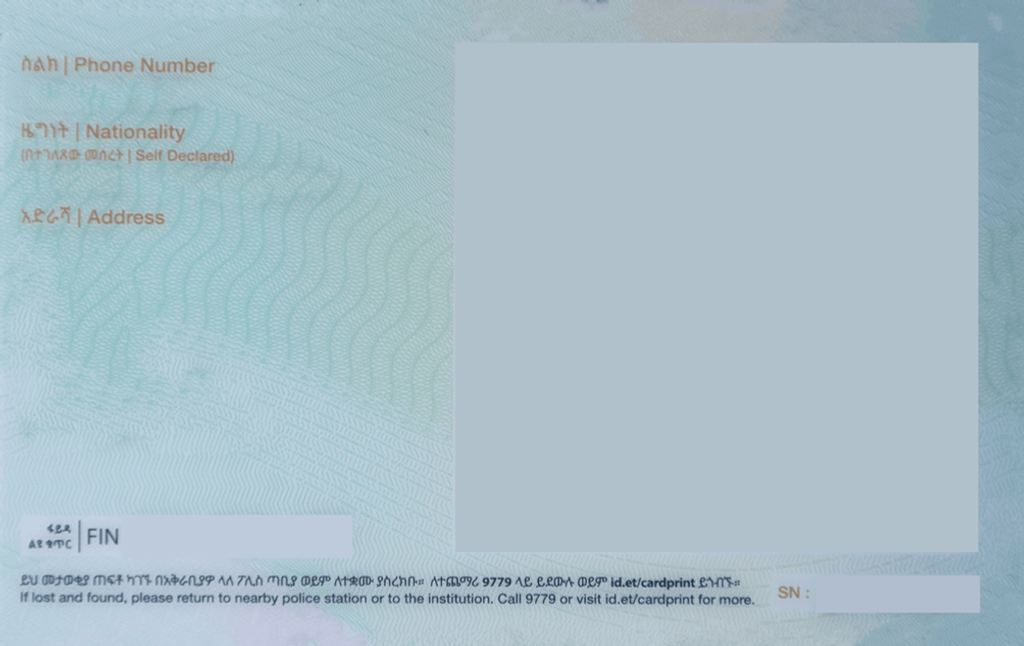
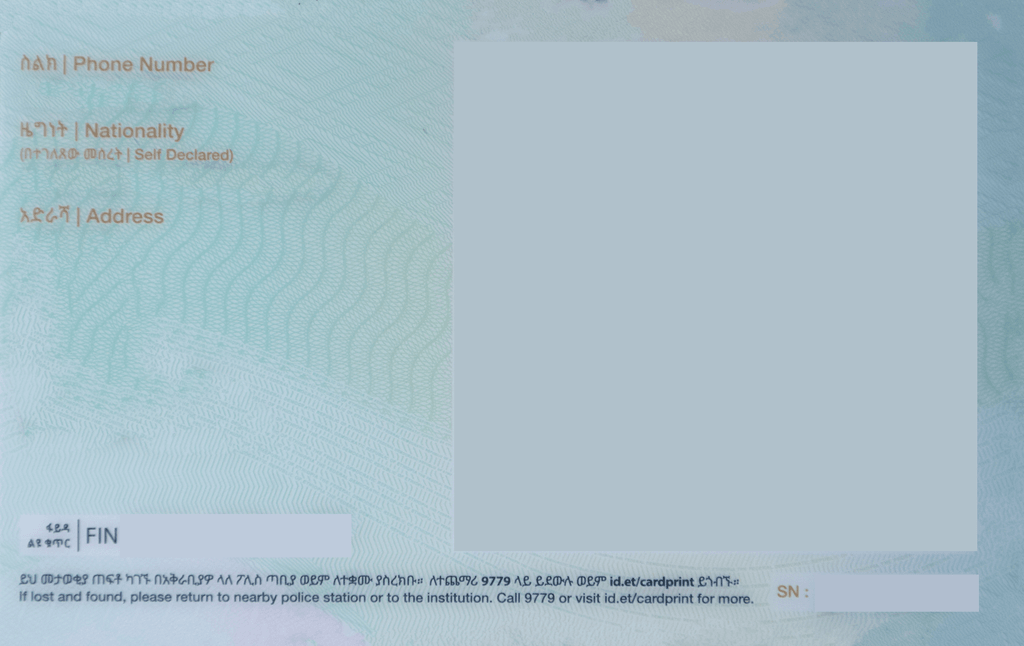
an

diff --git a/src/services/generator/pdfGenerator.ts b/src/services/generator/pdfGenerator.ts
@@ -22,6 +22,10 @@ const CARD_HEIGHT_PT = CARD_HEIGHT_CM * CM_TO_PT; // 155.01pt
 const CARD_GAP_PT = 19.20;      // Gap between front and back cards (matches 80px at 300dpi)
 const CARD_MARGIN_PT = 7.20;    // Margin around cutting guides (matches 30px at 300dpi)
 
+// Bleed area: 3mm = ~35px at 300 DPI = 8.40pt
+// Cards are scaled up by this amount so content extends beyond cut line
+const BLEED_PT = 8.40;          // Bleed area in points (35px at 300dpi)
+
 // Multi-card layout settings
 const CARDS_PER_PAGE = 5;    // 5 ID cards per page
 const MULTI_CARD_GAP = 8;    // Gap between cards in multi-card layout
@@ -63,22 +67,26 @@ export class PDFGenerator {
         doc.pipe(writeStream);
 
         // Position card at top of page with margin
-        // PNG dimensions: (1024*2 + 80 + 60) x (646 + 60) = 2188 x 706 px at 300dpi
-        const totalWidthWithPadding = CARD_WIDTH_PT * 2 + CARD_GAP_PT + (CARD_MARGIN_PT * 2);
-        const totalHeightWithPadding = CARD_HEIGHT_PT + (CARD_MARGIN_PT * 2);
+        // PNG dimensions now include bleed area (35px = ~8.40pt on each side)
+        // Card with bleed: (1024 + 70) x (646 + 70) = 1094 x 716 px per card at 300dpi
+        // Total: (1094*2 + 80 + 60) x (716 + 60) = 2328 x 776 px
+        const cardWidthWithBleed = CARD_WIDTH_PT + (BLEED_PT * 2);
+        const cardHeightWithBleed = CARD_HEIGHT_PT + (BLEED_PT * 2);
+        const totalWidthWithPadding = cardWidthWithBleed * 2 + CARD_GAP_PT + (CARD_MARGIN_PT * 2);
+        const totalHeightWithPadding = cardHeightWithBleed + (CARD_MARGIN_PT * 2);
         const topMargin = 30; // 30pt margin from top
         const startX = (A4_WIDTH_PT - totalWidthWithPadding) / 2; // Center horizontally
         const startY = topMargin; // Start from top with margin
 
         // Add the card image at top of page
-        // The image contains both front and back side by side with padding
+        // The image contains both front and back side by side with padding and bleed
         doc.image(cardImagePath, startX, startY, {
           width: totalWidthWithPadding,
           height: totalHeightWithPadding
         });
 
-        // Add cutting guides with increased margins
-        this.addCuttingGuides(doc, startX, startY);
+        // Add cutting guides (at original card size, inside the bleed area)
+        this.addCuttingGuides(doc, startX, startY, cardWidthWithBleed);
 
         // Add footer text with print instructions
         doc.undash()
@@ -148,9 +156,11 @@ export class PDFGenerator {
         const writeStream = fs.createWriteStream(outputPath);
         doc.pipe(writeStream);
 
-        // Position card at top of page with margin
-        const totalWidthWithPadding = CARD_WIDTH_PT * 2 + CARD_GAP_PT + (CARD_MARGIN_PT * 2);
-        const totalHeightWithPadding = CARD_HEIGHT_PT + (CARD_MARGIN_PT * 2);
+        // Position card at top of page with margin (includes bleed area)
+        const cardWidthWithBleed = CARD_WIDTH_PT + (BLEED_PT * 2);
+        const cardHeightWithBleed = CARD_HEIGHT_PT + (BLEED_PT * 2);
+        const totalWidthWithPadding = cardWidthWithBleed * 2 + CARD_GAP_PT + (CARD_MARGIN_PT * 2);
+        const totalHeightWithPadding = cardHeightWithBleed + (CARD_MARGIN_PT * 2);
         const topMargin = 30; // 30pt margin from top
         const startX = (A4_WIDTH_PT - totalWidthWithPadding) / 2; // Center horizontally
         const startY = topMargin; // Start from top with margin
@@ -161,8 +171,8 @@ export class PDFGenerator {
           height: totalHeightWithPadding
         });
 
-        // Add cutting guides
-        this.addCuttingGuides(doc, startX, startY);
+        // Add cutting guides (at original card size, inside the bleed area)
+        this.addCuttingGuides(doc, startX, startY, cardWidthWithBleed);
 
         // Add footer with print instructions
         doc.undash()
@@ -208,20 +218,23 @@ export class PDFGenerator {
 
   /**
    * Add cutting guide lines to PDF
-   * Guides are drawn around the actual cards (inside the padding area)
+   * Guides are drawn at the original card size (inside the bleed area)
+   * The bleed area extends beyond these guides so cutting imprecision
+   * still shows card content instead of white paper
    */
-  private addCuttingGuides(doc: PDFKit.PDFDocument, centerX: number, centerY: number): void {
+  private addCuttingGuides(doc: PDFKit.PDFDocument, centerX: number, centerY: number, _cardWidthWithBleed: number): void {
     // The centerX/centerY point to the top-left of the padded image
     // Cards start at centerX + CARD_MARGIN_PT, centerY + CARD_MARGIN_PT
-    const cardStartX = centerX + CARD_MARGIN_PT;
-    const cardStartY = centerY + CARD_MARGIN_PT;
-    const totalCardWidth = CARD_WIDTH_PT * 2 + CARD_GAP_PT;
+    // But cutting guides should be at original card size (inside bleed)
+    const cardStartX = centerX + CARD_MARGIN_PT + BLEED_PT;
+    const cardStartY = centerY + CARD_MARGIN_PT + BLEED_PT;
+    const totalCardWidth = CARD_WIDTH_PT * 2 + CARD_GAP_PT + (BLEED_PT * 2); // Gap between original card edges
     
     doc.strokeColor('#cccccc')
        .lineWidth(0.5)
        .dash(5, { space: 3 });
 
-    // Horizontal lines (top and bottom of cards)
+    // Horizontal lines (top and bottom of cards - at original size)
     doc.moveTo(cardStartX - 5, cardStartY)
        .lineTo(cardStartX + totalCardWidth + 5, cardStartY)
        .stroke();
@@ -230,13 +243,13 @@ export class PDFGenerator {
        .lineTo(cardStartX + totalCardWidth + 5, cardStartY + CARD_HEIGHT_PT)
        .stroke();
 
-    // Vertical lines (left, middle, right)
+    // Vertical lines (left, middle, right - at original card edges)
     doc.moveTo(cardStartX, cardStartY - 5)
        .lineTo(cardStartX, cardStartY + CARD_HEIGHT_PT + 5)
        .stroke();
 
     // Middle cutting line (between front and back)
-    const middleX = cardStartX + CARD_WIDTH_PT + CARD_GAP_PT / 2;
+    const middleX = cardStartX + CARD_WIDTH_PT + BLEED_PT + CARD_GAP_PT / 2;
     doc.moveTo(middleX, cardStartY - 5)
        .lineTo(middleX, cardStartY + CARD_HEIGHT_PT + 5)
        .stroke();
@@ -294,13 +307,15 @@ export class PDFGenerator {
         doc.pipe(writeStream);
 
         // Calculate card dimensions for 5 cards per page
-        // Each card has front+back side by side
-        const totalCardWidth = CARD_WIDTH_PT * 2 + CARD_GAP_PT; // ~522pt
+        // Each card has front+back side by side with bleed area
+        const cardWidthWithBleed = CARD_WIDTH_PT + (BLEED_PT * 2);
+        const cardHeightWithBleed = CARD_HEIGHT_PT + (BLEED_PT * 2);
+        const totalCardWidth = cardWidthWithBleed * 2 + CARD_GAP_PT; // ~540pt with bleed
         const availableWidth = A4_WIDTH_PT - (PAGE_MARGIN * 2);
         const scale = Math.min(1, availableWidth / totalCardWidth);
         
         const scaledCardWidth = totalCardWidth * scale;
-        const scaledCardHeight = CARD_HEIGHT_PT * scale;
+        const scaledCardHeight = cardHeightWithBleed * scale;
         
         // Calculate vertical spacing for 5 cards
         const availableHeight = A4_HEIGHT_PT - (PAGE_MARGIN * 2) - 30; // 30pt for footer
@@ -406,13 +421,15 @@ export class PDFGenerator {
         const writeStream = fs.createWriteStream(outputPath);
         doc.pipe(writeStream);
 
-        // Calculate dimensions (same as above)
-        const totalCardWidth = CARD_WIDTH_PT * 2 + CARD_GAP_PT;
+        // Calculate dimensions (same as above, with bleed area)
+        const cardWidthWithBleed = CARD_WIDTH_PT + (BLEED_PT * 2);
+        const cardHeightWithBleed = CARD_HEIGHT_PT + (BLEED_PT * 2);
+        const totalCardWidth = cardWidthWithBleed * 2 + CARD_GAP_PT;
         const availableWidth = A4_WIDTH_PT - (PAGE_MARGIN * 2);
         const scale = Math.min(1, availableWidth / totalCardWidth);
         
         const scaledCardWidth = totalCardWidth * scale;
-        const scaledCardHeight = CARD_HEIGHT_PT * scale;
+        const scaledCardHeight = cardHeightWithBleed * scale;
         
         const availableHeight = A4_HEIGHT_PT - (PAGE_MARGIN * 2) - 30;
         const totalCardsHeight = (scaledCardHeight * CARDS_PER_PAGE) + (MULTI_CARD_GAP * (CARDS_PER_PAGE - 1));

diff --git a/src/services/generator/cardVariantGenerator.ts b/src/services/generator/cardVariantGenerator.ts
@@ -55,42 +55,60 @@ export class CardVariantGenerator {
    * @param mirrored - If true, flip both cards horizontally for printing
    * Output maintains 300 DPI for proper printing
    * Standard card size: 8.67cm × 5.47cm = 1024×646px at 300 DPI
+   * 
+   * BLEED AREA: Cards are scaled up slightly (3mm bleed = ~35px at 300 DPI)
+   * so when cut, there's card content at edges instead of white paper
    */
   private async combineCards(front: Buffer, back: Buffer, template?: TemplateType, mirrored: boolean = false): Promise<Buffer> {
     try {
       const { width, height } = getCardDimensions(template);
       const gap = 80; // Good spacing between cards for cutting
       const padding = 30; // Padding around the entire image
-      const totalWidth = width * 2 + gap + (padding * 2);
-      const totalHeight = height + (padding * 2);
+      
+      // Bleed area: 3mm = ~35px at 300 DPI (standard print bleed)
+      // This extends card content beyond the cut line
+      const bleed = 35;
+      
+      // Scale factor to extend card content into bleed area
+      // Card is scaled up so content extends beyond cut line on all sides
+      const scaleX = (width + bleed * 2) / width;
+      const scaleY = (height + bleed * 2) / height;
+      const scaledWidth = Math.round(width * scaleX);
+      const scaledHeight = Math.round(height * scaleY);
+      
+      // Total dimensions include bleed area
+      const totalWidth = scaledWidth * 2 + gap + (padding * 2);
+      const totalHeight = scaledHeight + (padding * 2);
 
-      // Keep original dimensions at 300 DPI for proper printing
-      // No scaling - maintain pixel-perfect quality
-      const outputWidth = totalWidth;
-      const outputHeight = totalHeight;
-
-      // Optionally flip both cards for mirrored version (no resize)
+      // Scale up cards to include bleed area
       let processedFront: Buffer;
       let processedBack: Buffer;
       
       if (mirrored) {
-        // Flip both cards horizontally for printing
+        // Flip and scale both cards for mirrored version
         processedFront = await sharp(front)
           .flop()
+          .resize(scaledWidth, scaledHeight, { fit: 'fill' })
           .toBuffer();
         processedBack = await sharp(back)
           .flop()
+          .resize(scaledWidth, scaledHeight, { fit: 'fill' })
           .toBuffer();
       } else {
-        processedFront = front;
-        processedBack = back;
+        // Scale up cards to include bleed
+        processedFront = await sharp(front)
+          .resize(scaledWidth, scaledHeight, { fit: 'fill' })
+          .toBuffer();
+        processedBack = await sharp(back)
+          .resize(scaledWidth, scaledHeight, { fit: 'fill' })
+          .toBuffer();
       }
 
-      // Create canvas with white background at full 300 DPI resolution
+      // Create canvas with white background at full resolution
       const canvas = await sharp({
         create: {
-          width: outputWidth,
-          height: outputHeight,
+          width: totalWidth,
+          height: totalHeight,
           channels: 4,
           background: { r: 255, g: 255, b: 255, alpha: 1 } // White background
         }
@@ -103,7 +121,7 @@ export class CardVariantGenerator {
       return await sharp(canvas)
         .composite([
           { input: processedBack, left: padding, top: padding },
-          { input: processedFront, left: padding + width + gap, top: padding }
+          { input: processedFront, left: padding + scaledWidth + gap, top: padding }
         ])
         .withMetadata({ density: 300 }) // Embed 300 DPI metadata
         .png({
